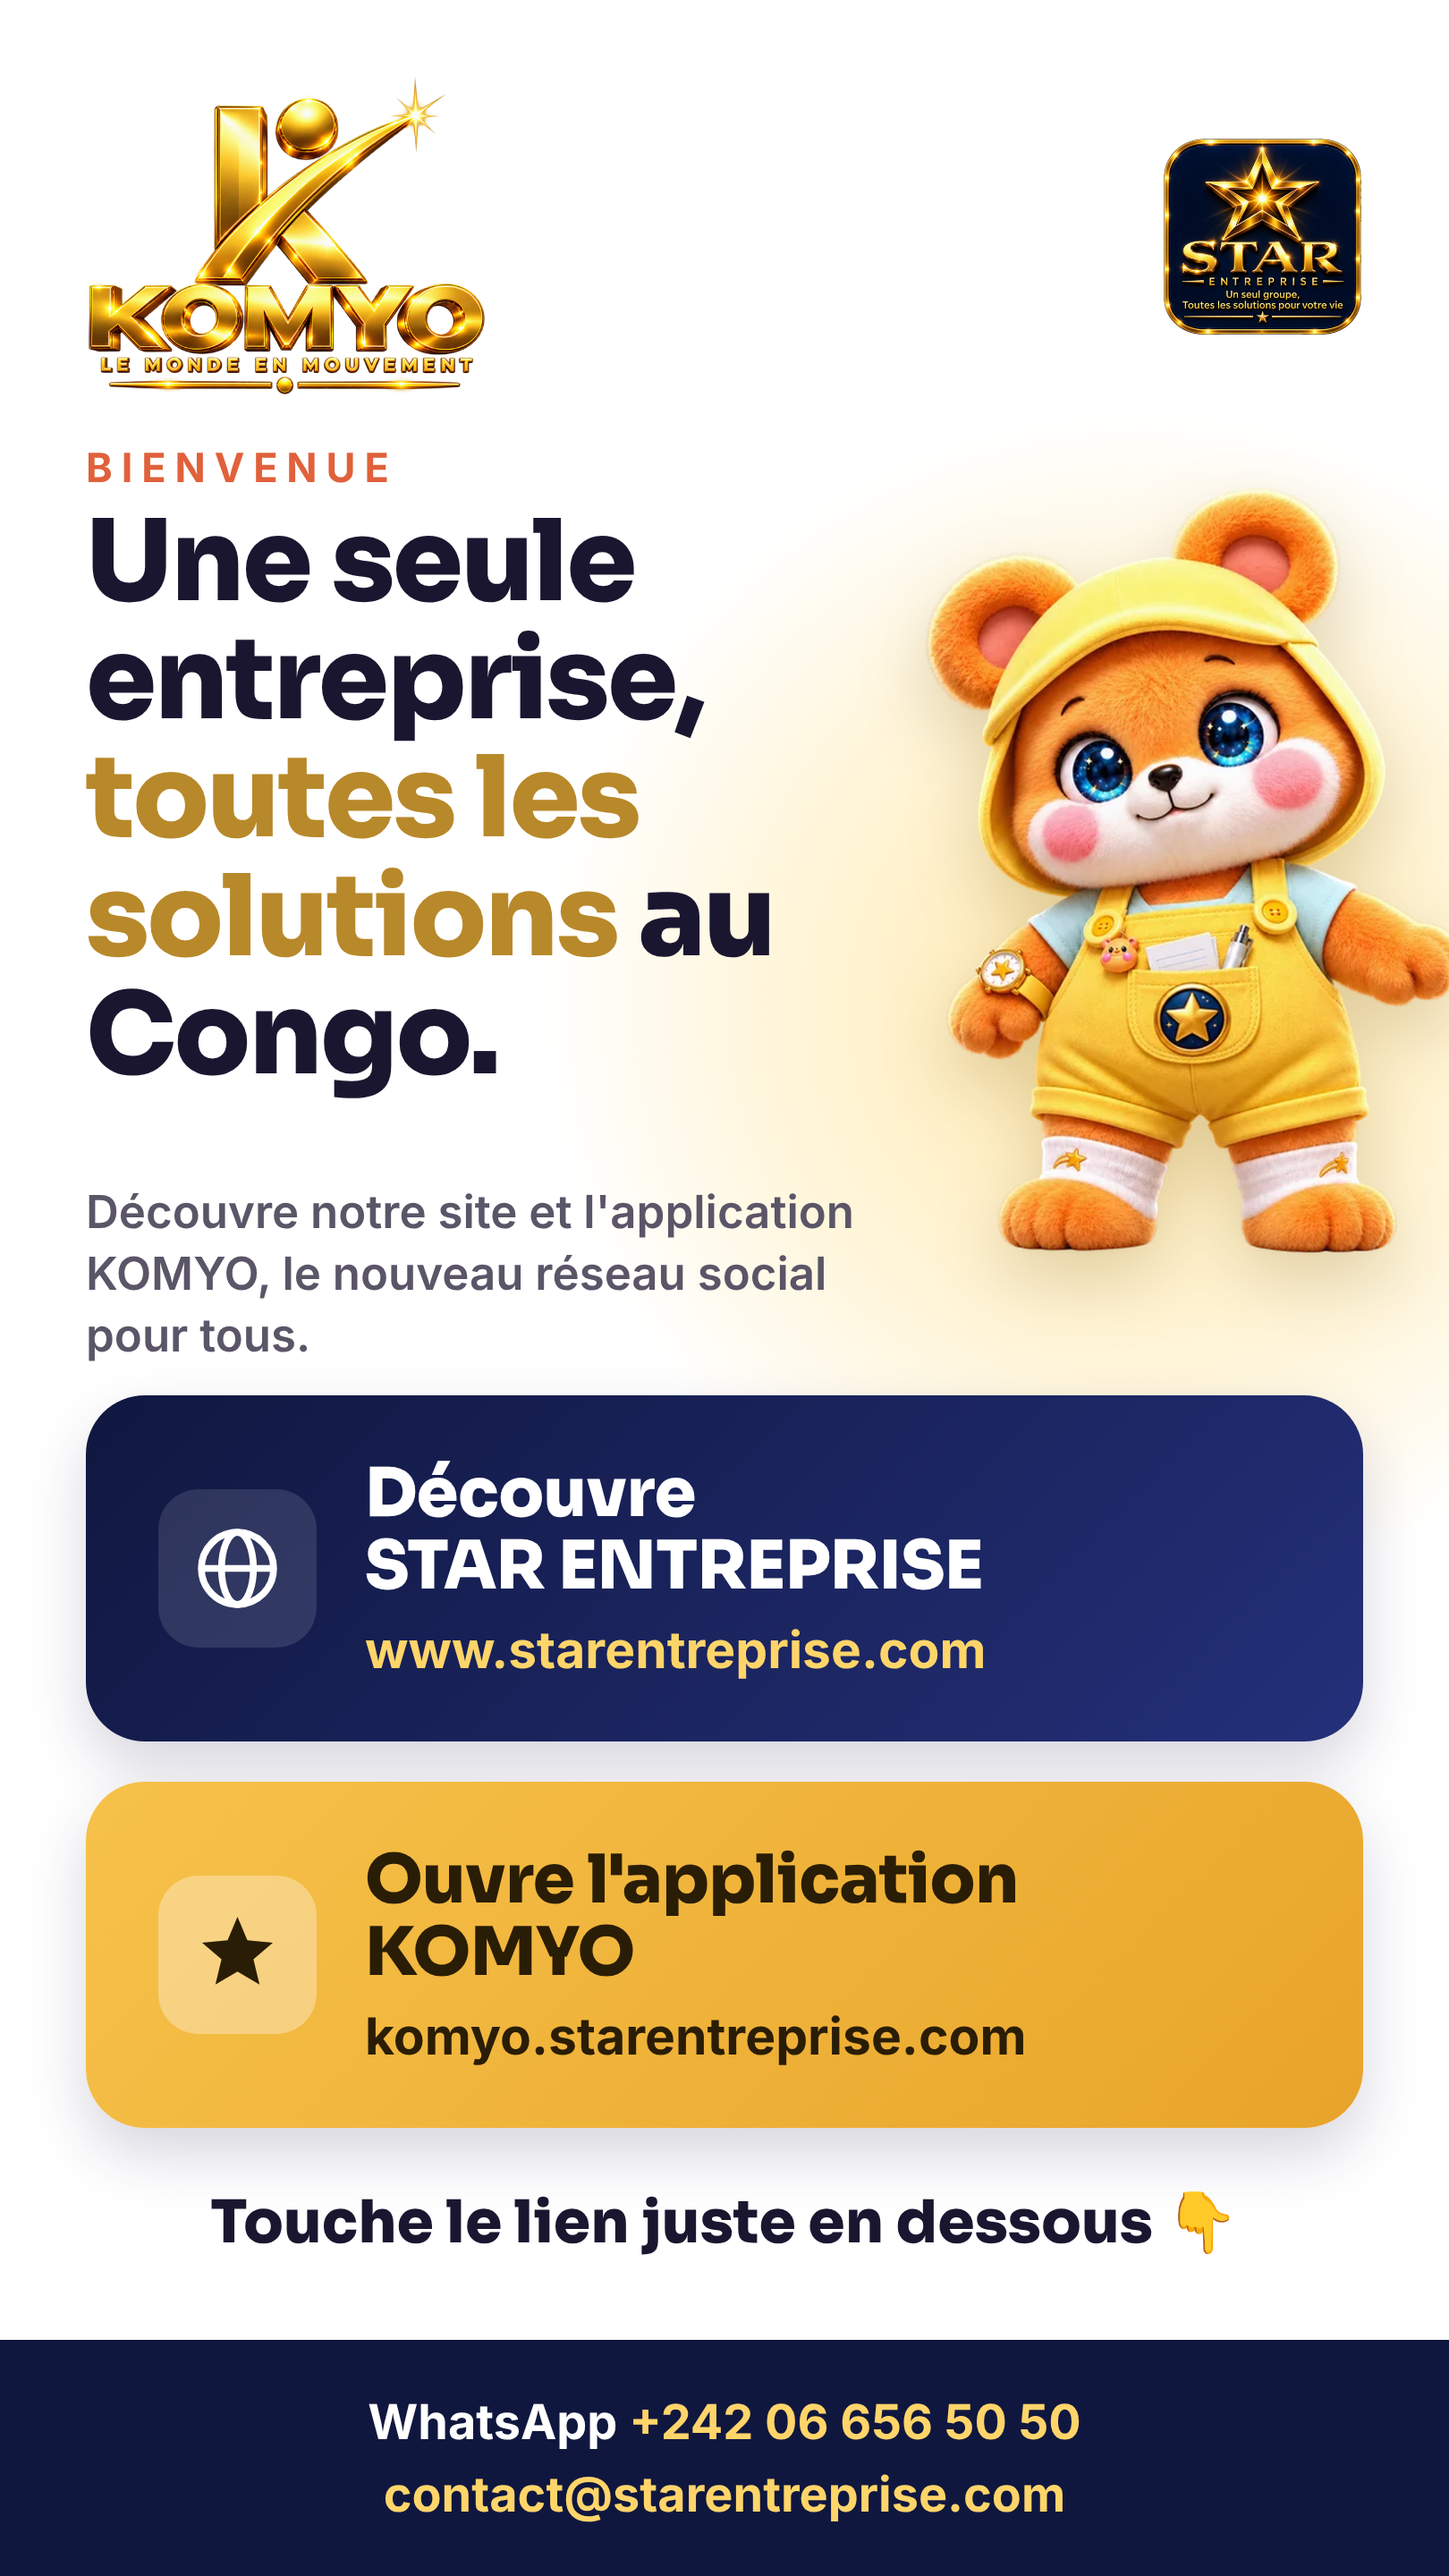
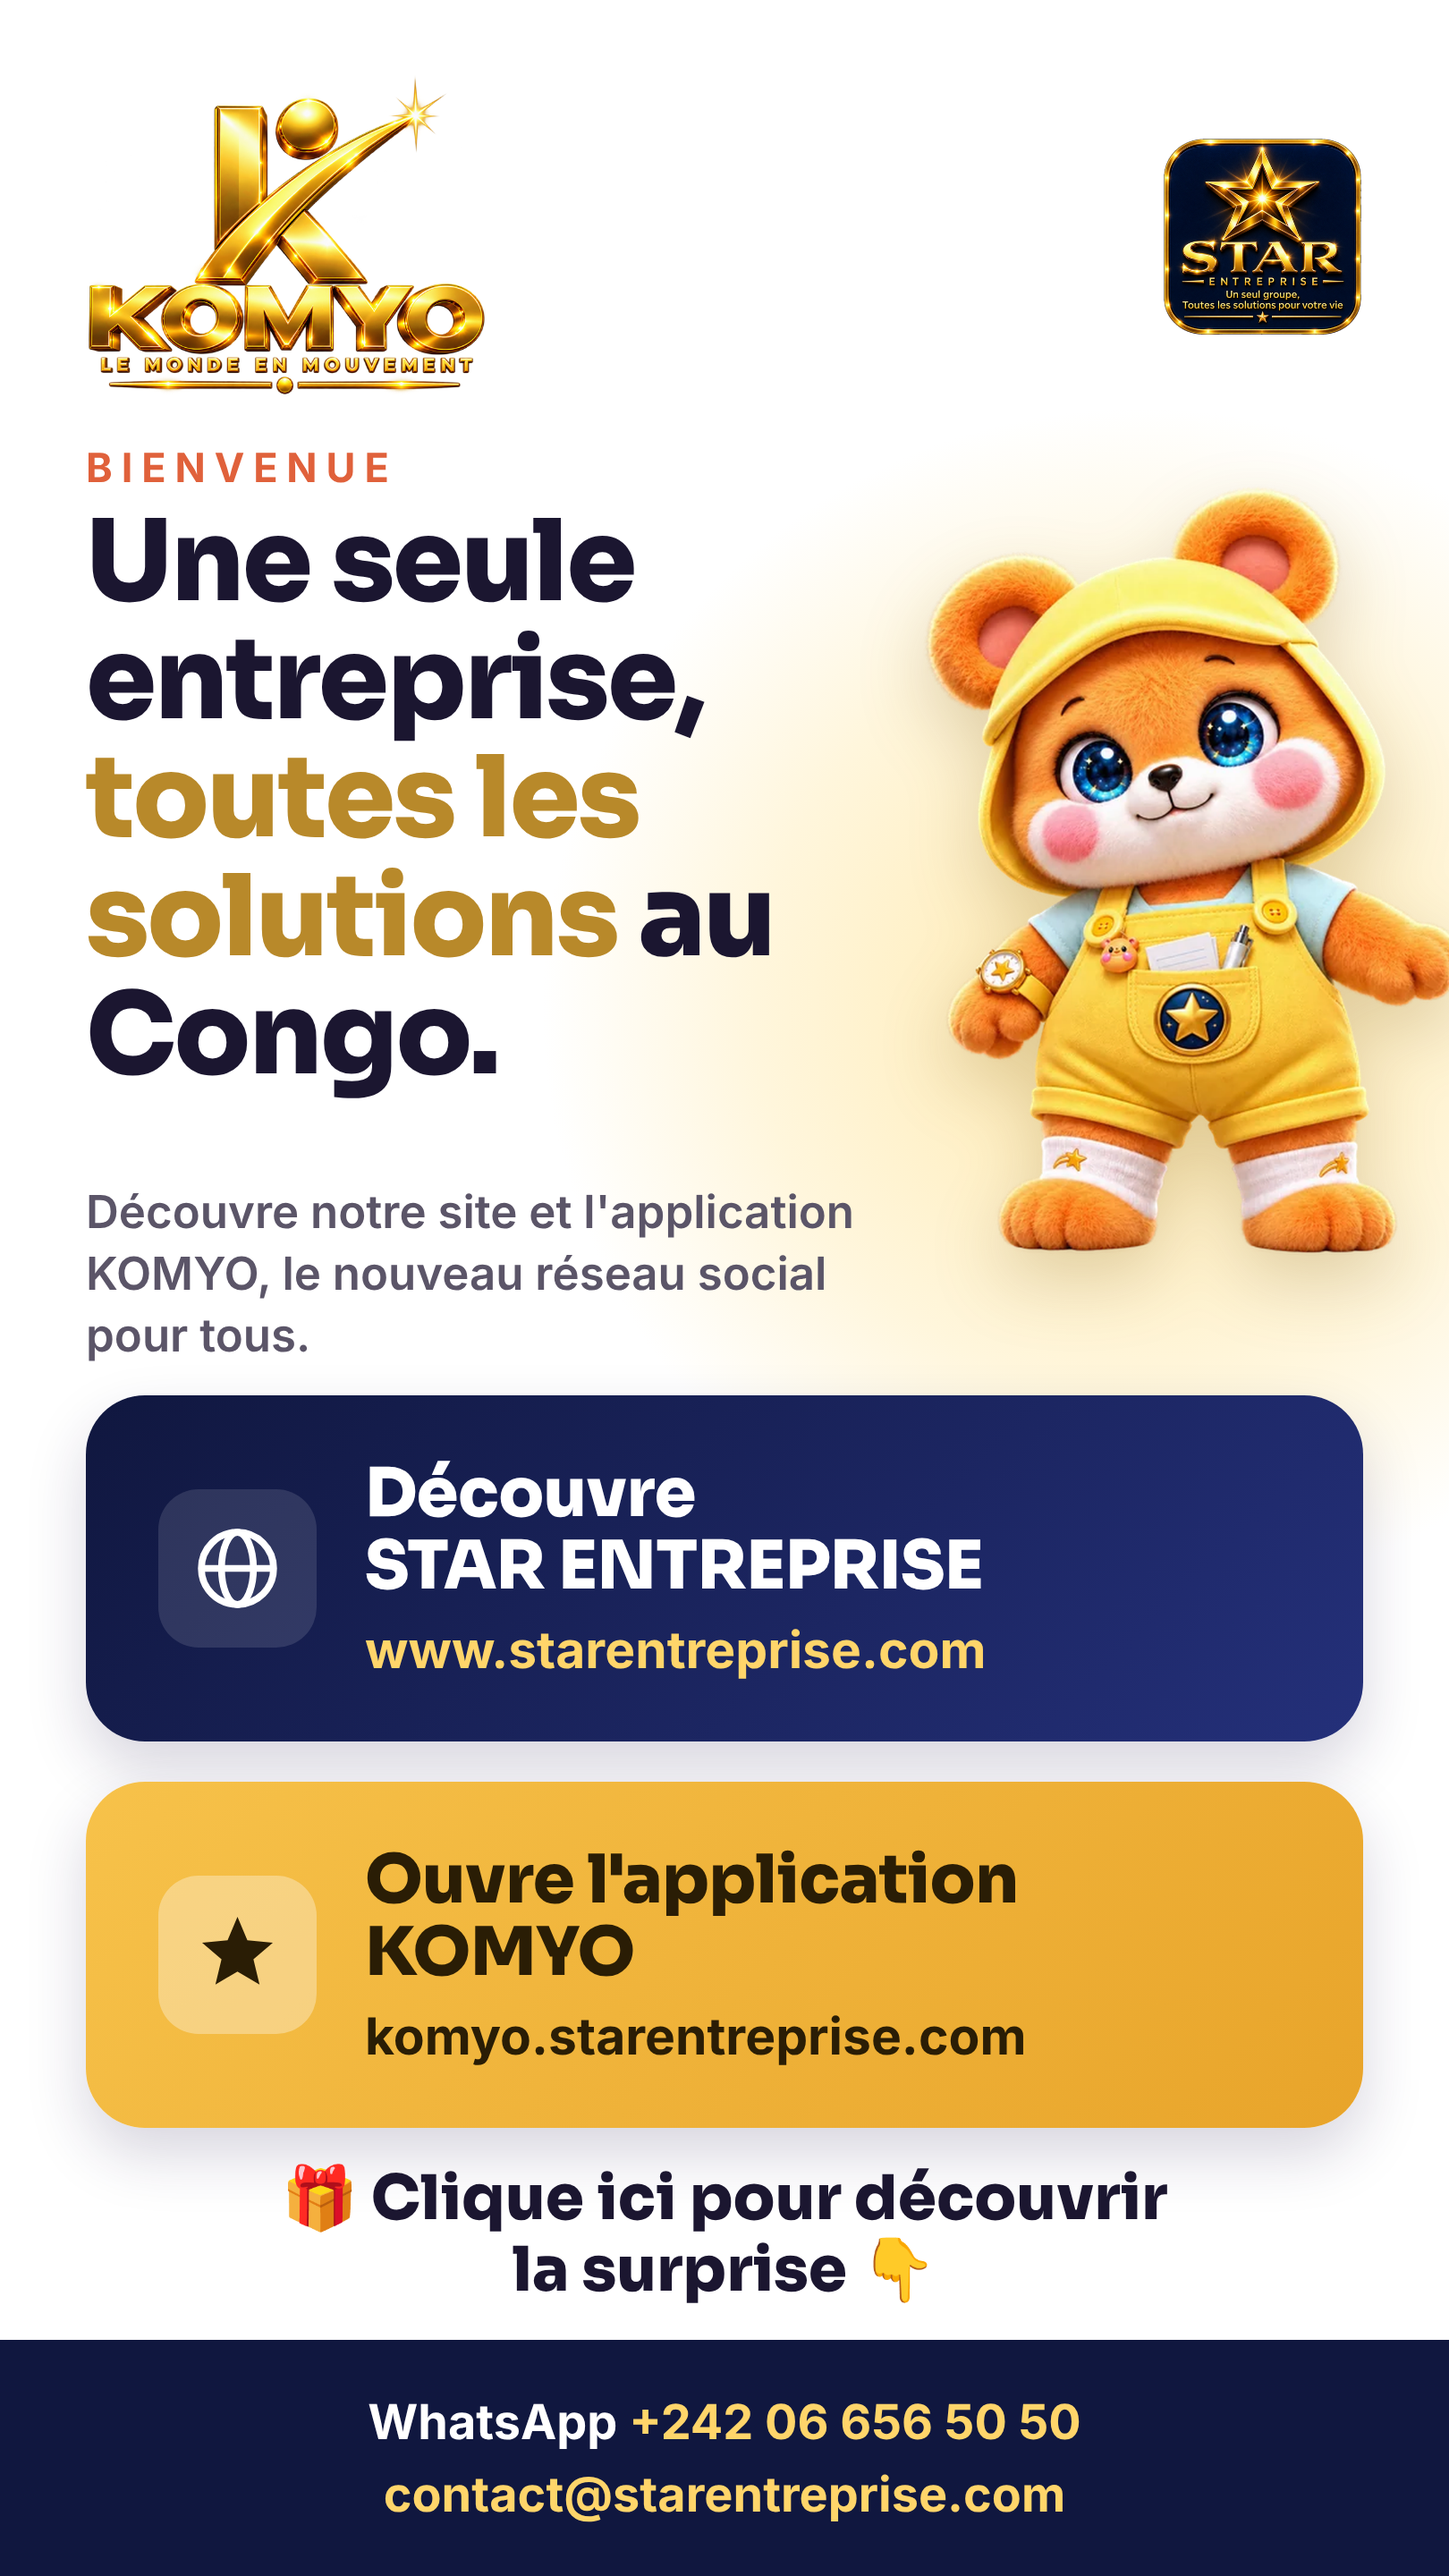
Page de partage et affiche : phrase « Clique ici pour découvrir la surprise »
Claude-Session: https://claude.ai/code/session_01E6FpdmevGXTi1RN5dnNTRb

Changed region(s): [[0.1543, 0.8438, 0.8642, 0.9062]]

diff --git a/starvibe/bienvenue.html b/starvibe/bienvenue.html
@@ -3,12 +3,12 @@
 <head>
 <meta charset="utf-8">
 <meta name="viewport" content="width=device-width,initial-scale=1,viewport-fit=cover">
-<title>STAR ENTREPRISE et KOMYO</title>
+<title>La surprise STAR ENTREPRISE et KOMYO</title>
 <meta name="description" content="Découvre notre site et l'application KOMYO, le nouveau réseau social pour tous.">
 <meta property="og:type" content="website">
 <meta property="og:site_name" content="STAR ENTREPRISE">
-<meta property="og:title" content="STAR ENTREPRISE — Une seule entreprise, toutes les solutions au Congo">
-<meta property="og:description" content="Découvre notre site et l'application KOMYO, le nouveau réseau social pour tous.">
+<meta property="og:title" content="🎁 Clique ici pour découvrir la surprise">
+<meta property="og:description" content="STAR ENTREPRISE : une seule entreprise, toutes les solutions au Congo. Découvre aussi KOMYO, le nouveau réseau social pour tous.">
 <meta property="og:url" content="https://komyo.starentreprise.com/bienvenue">
 <meta property="og:image" content="https://komyo.starentreprise.com/starvibe/assets/img/partage-star-komyo.jpg">
 <meta property="og:image:width" content="1200">
@@ -42,7 +42,7 @@ a:focus-visible{outline:3px solid #1b66ff;outline-offset:3px}
 <main>
   <div class="logos"><img class="k" src="assets/img/komyo-logo-officiel.png" alt="KOMYO, le monde en mouvement"></div>
   <h1>Une seule entreprise, <b>toutes les solutions</b> au Congo.</h1>
-  <p class="lead">Choisis où tu veux aller :</p>
+  <p class="lead">🎁 Voici la surprise : choisis où tu veux aller.</p>
   <a class="btn site" href="https://www.starentreprise.com" rel="noopener">
     <span class="ic"><svg width="30" height="30" viewBox="0 0 24 24" fill="none" stroke="#fff" stroke-width="1.8" aria-hidden="true"><circle cx="12" cy="12" r="9.5"/><ellipse cx="12" cy="12" rx="4.2" ry="9.5"/><path d="M2.5 12h19"/></svg></span>
     <span><strong>Découvrir STAR ENTREPRISE</strong><small>www.starentreprise.com</small></span>
